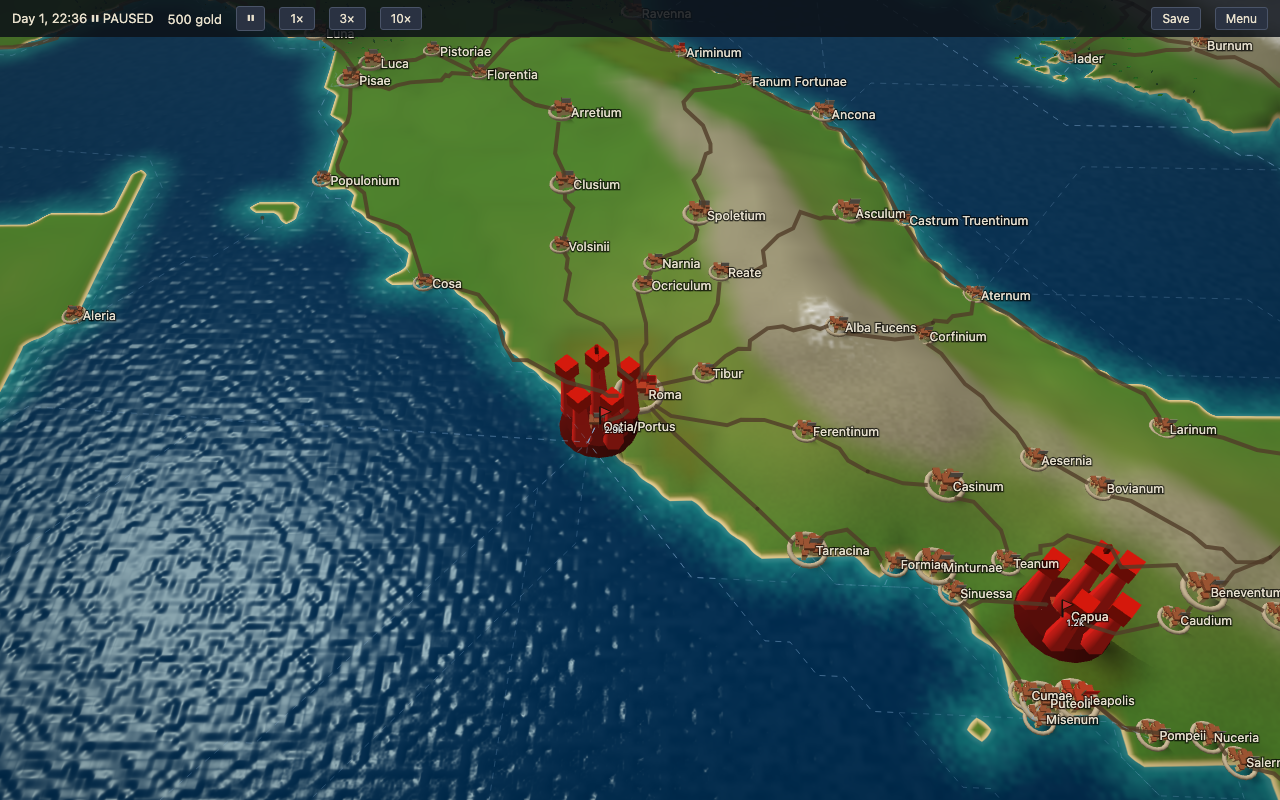
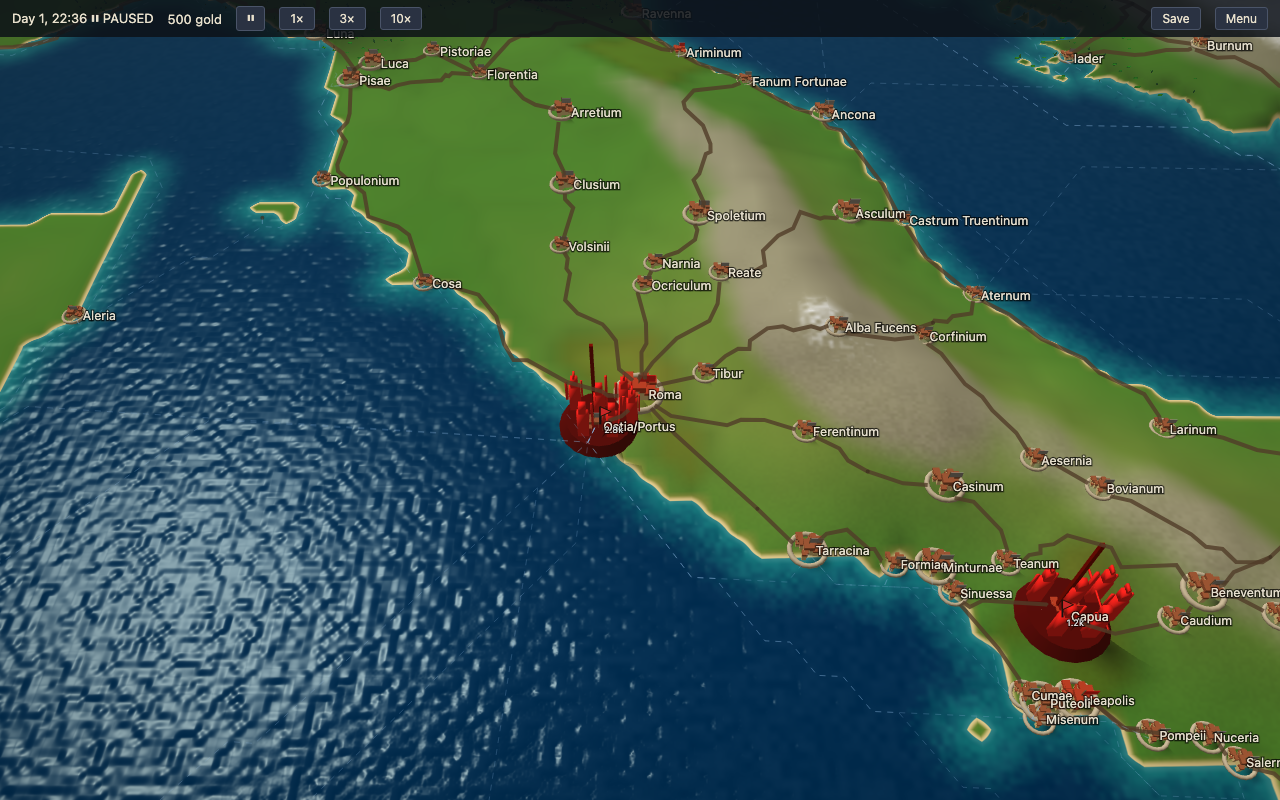
Share the per-class soldier model: campaign armies are built from battle troopers
Extracted the battle renderer's per-class soldier geometry (torso, head, crest,
shield, weapon, optional horse) into shared/soldierModel.ts — classGeometry +
CLASS_LOOK, pure VertexData, no scene deps. The battle renderer imports it
(byte-identical render: battle-initial unchanged). The campaign army marker is
now a knot of those same troopers (a longsword centerpiece, heavies, a
spearman, an archer — compact upright weapons so nothing spears out of the
cluster) instead of crude cylinders, so an army on the map is made of the
soldiers it fields. campaign-3d re-blessed.

diff --git a/web/src/battle/renderer3d.ts b/web/src/battle/renderer3d.ts
@@ -12,6 +12,7 @@ import { Scene } from '@babylonjs/core/scene';
 import { FreeCamera } from '@babylonjs/core/Cameras/freeCamera';
 import { Camera as BCamera } from '@babylonjs/core/Cameras/camera';
 import { PostProcess } from '@babylonjs/core/PostProcesses/postProcess';
+import { CLASS_LOOK, classGeometry } from '../shared/soldierModel';
 import { HemisphericLight } from '@babylonjs/core/Lights/hemisphericLight';
 import { DirectionalLight } from '@babylonjs/core/Lights/directionalLight';
 import { Vector2, Vector3, Vector4 } from '@babylonjs/core/Maths/math.vector';
@@ -237,86 +238,6 @@ void main() {
   gl_FragColor = vec4(clamp(c * 1.08 - 0.015, 0.0, 1.0), 1.0);
 }`;
 
-
-// Per-class look (local +y = forward, +z = up). A weapon length, a shield,
-// and whether the trooper is mounted are enough to read every class apart
-// in silhouette — the same distinctions the atlas sprites draw.
-interface ClassLook {
-  weapon: 'sword' | 'spear' | 'greatsword' | 'pike' | 'bow' | 'javelin' | 'lance' | 'none';
-  shield: 'tall' | 'round' | 'small' | 'none';
-  crest: boolean;
-  mounted: boolean;
-}
-const CLASS_LOOK: ClassLook[] = [
-  { weapon: 'sword', shield: 'tall', crest: true, mounted: false }, // 0 heavy
-  { weapon: 'spear', shield: 'round', crest: false, mounted: false }, // 1 light
-  { weapon: 'greatsword', shield: 'none', crest: false, mounted: false }, // 2 longswords
-  { weapon: 'pike', shield: 'small', crest: true, mounted: false }, // 3 phalanx
-  { weapon: 'bow', shield: 'none', crest: false, mounted: false }, // 4 archers
-  { weapon: 'javelin', shield: 'small', crest: false, mounted: false }, // 5 skirmishers
-  { weapon: 'lance', shield: 'round', crest: true, mounted: true }, // 6 shock cav
-  { weapon: 'bow', shield: 'none', crest: false, mounted: true }, // 7 horse archers
-  { weapon: 'none', shield: 'none', crest: false, mounted: false }, // 8 artillery crew
-];
-
-/** Low-poly per-class soldier (or rider on a horse). Built once per class,
- *  thin-instanced. */
-function classGeometry(cls: number): VertexData {
-  const L = CLASS_LOOK[cls] ?? CLASS_LOOK[0];
-  const pos: number[] = [];
-  const idx: number[] = [];
-  const box = (x0: number, y0: number, z0: number, x1: number, y1: number, z1: number) => {
-    const b = pos.length / 3;
-    const c = [
-      [x0, y0, z0], [x1, y0, z0], [x1, y1, z0], [x0, y1, z0],
-      [x0, y0, z1], [x1, y0, z1], [x1, y1, z1], [x0, y1, z1],
-    ];
-    for (const v of c) pos.push(v[0], v[1], v[2]);
-    for (const [a, bb, cc, d] of [
-      [0, 1, 2, 3], [4, 7, 6, 5], [0, 4, 5, 1], [3, 2, 6, 7], [1, 5, 6, 2], [0, 3, 7, 4],
-    ]) idx.push(b + a, b + bb, b + cc, b + a, b + cc, b + d);
-  };
-
-  // Rider sits higher when mounted; the horse goes under him.
-  const foot = L.mounted ? 0.95 : 0.0;
-  if (L.mounted) {
-    box(-0.16, -0.7, 0.0, 0.16, 0.55, 0.92); // horse barrel
-    box(-0.13, 0.5, 0.55, 0.13, 0.95, 0.78); // neck
-    box(-0.11, 0.9, 0.66, 0.11, 1.18, 0.9); // head
-    box(-0.16, -0.62, 0.0, -0.08, -0.5, 0.6); // a back leg hint
-    box(0.08, 0.42, 0.0, 0.16, 0.54, 0.6); // a front leg hint
-  }
-  box(-0.16, -0.1, foot, 0.16, 0.1, foot + 1.0); // torso + legs
-  box(-0.1, -0.09, foot + 1.0, 0.1, 0.11, foot + 1.34); // head
-  if (L.crest) box(-0.03, -0.05, foot + 1.34, 0.03, 0.14, foot + 1.5); // helmet crest
-
-  // Shield on the left arm (-x), facing forward.
-  if (L.shield !== 'none') {
-    const sh = { tall: [0.5, 0.78], round: [0.42, 0.55], small: [0.32, 0.4] }[L.shield];
-    box(-0.27, 0.02, foot + 0.35, -0.19, 0.06 + sh[0] * 0.0 + 0.0, foot + 0.35 + sh[1]);
-  }
-
-  // Weapon on the right (+x), reaching forward (+y) for poles, upright for blades/bows.
-  const wx = 0.2;
-  switch (L.weapon) {
-    case 'pike': box(wx - 0.02, -0.2, foot + 0.7, wx + 0.02, 3.0, foot + 0.78); break;
-    case 'lance': box(wx - 0.02, -0.1, foot + 0.55, wx + 0.02, 2.0, foot + 0.62); break;
-    case 'spear': box(wx - 0.02, -0.2, foot + 0.6, wx + 0.02, 1.4, foot + 0.66); break;
-    case 'javelin': box(wx - 0.02, -0.1, foot + 0.7, wx + 0.02, 0.9, foot + 0.74); break;
-    case 'sword': box(wx - 0.02, 0.0, foot + 0.5, wx + 0.03, 0.06, foot + 1.2); break;
-    case 'greatsword': box(wx - 0.03, 0.0, foot + 0.4, wx + 0.04, 0.08, foot + 1.7); break;
-    case 'bow': box(wx + 0.04, -0.02, foot + 0.4, wx + 0.1, 0.02, foot + 1.4); break;
-    case 'none': break;
-  }
-
-  const vd = new VertexData();
-  vd.positions = pos;
-  vd.indices = idx;
-  const normals: number[] = [];
-  VertexData.ComputeNormals(pos, idx, normals);
-  vd.normals = normals;
-  return vd;
-}
 
 // Box accumulator for low-poly props; optional per-vertex colour.
 function pushBox(

diff --git a/web/src/shared/soldierModel.ts b/web/src/shared/soldierModel.ts
@@ -1,0 +1,85 @@
+// Low-poly per-class soldier geometry, shared by the battle renderer (one
+// thin-instanced mesh per class, animated) and the campaign map (a few figures
+// merged into each army marker). Local axes: +y = forward, +z = up. A weapon
+// length, a shield, and whether the trooper is mounted are enough to read
+// every class apart in silhouette — the same distinctions the atlas sprites
+// draw. Pure geometry: positions, indices, computed normals; no scene deps.
+
+import { VertexData } from '@babylonjs/core/Meshes/mesh.vertexData';
+
+export interface ClassLook {
+  weapon: 'sword' | 'spear' | 'greatsword' | 'pike' | 'bow' | 'javelin' | 'lance' | 'none';
+  shield: 'tall' | 'round' | 'small' | 'none';
+  crest: boolean;
+  mounted: boolean;
+}
+
+export const CLASS_LOOK: ClassLook[] = [
+  { weapon: 'sword', shield: 'tall', crest: true, mounted: false }, // 0 heavy
+  { weapon: 'spear', shield: 'round', crest: false, mounted: false }, // 1 light
+  { weapon: 'greatsword', shield: 'none', crest: false, mounted: false }, // 2 longswords
+  { weapon: 'pike', shield: 'small', crest: true, mounted: false }, // 3 phalanx
+  { weapon: 'bow', shield: 'none', crest: false, mounted: false }, // 4 archers
+  { weapon: 'javelin', shield: 'small', crest: false, mounted: false }, // 5 skirmishers
+  { weapon: 'lance', shield: 'round', crest: true, mounted: true }, // 6 shock cav
+  { weapon: 'bow', shield: 'none', crest: false, mounted: true }, // 7 horse archers
+  { weapon: 'none', shield: 'none', crest: false, mounted: false }, // 8 artillery crew
+];
+
+/** Per-class soldier (or rider on a horse) as one box mesh. */
+export function classGeometry(cls: number): VertexData {
+  const L = CLASS_LOOK[cls] ?? CLASS_LOOK[0];
+  const pos: number[] = [];
+  const idx: number[] = [];
+  const box = (x0: number, y0: number, z0: number, x1: number, y1: number, z1: number) => {
+    const b = pos.length / 3;
+    const c = [
+      [x0, y0, z0], [x1, y0, z0], [x1, y1, z0], [x0, y1, z0],
+      [x0, y0, z1], [x1, y0, z1], [x1, y1, z1], [x0, y1, z1],
+    ];
+    for (const v of c) pos.push(v[0], v[1], v[2]);
+    for (const [a, bb, cc, d] of [
+      [0, 1, 2, 3], [4, 7, 6, 5], [0, 4, 5, 1], [3, 2, 6, 7], [1, 5, 6, 2], [0, 3, 7, 4],
+    ]) idx.push(b + a, b + bb, b + cc, b + a, b + cc, b + d);
+  };
+
+  // Rider sits higher when mounted; the horse goes under him.
+  const foot = L.mounted ? 0.95 : 0.0;
+  if (L.mounted) {
+    box(-0.16, -0.7, 0.0, 0.16, 0.55, 0.92); // horse barrel
+    box(-0.13, 0.5, 0.55, 0.13, 0.95, 0.78); // neck
+    box(-0.11, 0.9, 0.66, 0.11, 1.18, 0.9); // head
+    box(-0.16, -0.62, 0.0, -0.08, -0.5, 0.6); // a back leg hint
+    box(0.08, 0.42, 0.0, 0.16, 0.54, 0.6); // a front leg hint
+  }
+  box(-0.16, -0.1, foot, 0.16, 0.1, foot + 1.0); // torso + legs
+  box(-0.1, -0.09, foot + 1.0, 0.1, 0.11, foot + 1.34); // head
+  if (L.crest) box(-0.03, -0.05, foot + 1.34, 0.03, 0.14, foot + 1.5); // helmet crest
+
+  // Shield on the left arm (-x), facing forward.
+  if (L.shield !== 'none') {
+    const sh = { tall: [0.5, 0.78], round: [0.42, 0.55], small: [0.32, 0.4] }[L.shield];
+    box(-0.27, 0.02, foot + 0.35, -0.19, 0.06 + sh[0] * 0.0 + 0.0, foot + 0.35 + sh[1]);
+  }
+
+  // Weapon on the right (+x), reaching forward (+y) for poles, upright otherwise.
+  const wx = 0.2;
+  switch (L.weapon) {
+    case 'pike': box(wx - 0.02, -0.2, foot + 0.7, wx + 0.02, 3.0, foot + 0.78); break;
+    case 'lance': box(wx - 0.02, -0.1, foot + 0.55, wx + 0.02, 2.0, foot + 0.62); break;
+    case 'spear': box(wx - 0.02, -0.2, foot + 0.6, wx + 0.02, 1.4, foot + 0.66); break;
+    case 'javelin': box(wx - 0.02, -0.1, foot + 0.7, wx + 0.02, 0.9, foot + 0.74); break;
+    case 'sword': box(wx - 0.02, 0.0, foot + 0.5, wx + 0.03, 0.06, foot + 1.2); break;
+    case 'greatsword': box(wx - 0.03, 0.0, foot + 0.4, wx + 0.04, 0.08, foot + 1.7); break;
+    case 'bow': box(wx + 0.04, -0.02, foot + 0.4, wx + 0.1, 0.02, foot + 1.4); break;
+    case 'none': break;
+  }
+
+  const vd = new VertexData();
+  vd.positions = pos;
+  vd.indices = idx;
+  const normals: number[] = [];
+  VertexData.ComputeNormals(pos, idx, normals);
+  vd.normals = normals;
+  return vd;
+}

diff --git a/web/src/campaign/terrain3d.ts b/web/src/campaign/terrain3d.ts
@@ -33,6 +33,7 @@ import '@babylonjs/core/Meshes/thinInstanceMesh';
 import type { CampaignData } from './data';
 import type { CamView } from './renderer';
 import { TerrainField, SUN, TEMPERATE_Y_KM, hash2 } from './terrain';
+import { classGeometry } from '../shared/soldierModel';
 
 const FOV = (45 * Math.PI) / 180;
 /** Tilt: 90° (top-down) until TILT_START, easing to MIN_PITCH by TILT_END. */
@@ -604,27 +605,31 @@ export class Terrain3D {
     base.rotation.x = Math.PI / 2; // cylinder axis Y -> world up Z
     base.position.z = 0.18;
     parts.push(this.paint(base, 0.32, 0.32, 0.34)); // dark muted footprint, faction-tinted
-    // A soldier: tapered body + a head, standing on the base.
-    const soldier = (sx: number, sy: number, hgt: number) => {
-      const body = CreateCylinder('s', { diameterTop: 0.45, diameterBottom: 0.8, height: hgt, tessellation: 6 }, this.scene);
-      body.rotation.x = Math.PI / 2;
-      body.position.set(sx, sy, 0.35 + hgt / 2);
-      parts.push(this.paint(body, 1, 1, 1)); // full faction color
-      const head = CreateBox('h', { size: 0.62 }, this.scene);
-      head.rotation.z = Math.PI / 4;
-      head.position.set(sx, sy, 0.35 + hgt + 0.22);
-      parts.push(this.paint(head, 0.85, 0.72, 0.6)); // flesh, faction-tinted
+    // Reuse the battle's per-class soldier geometry (shared/soldierModel) so
+    // the marker is built from the same troopers the battle fields — a
+    // representative mix gives the knot a readable silhouette. classGeometry
+    // is +z up, foot at 0; a zero UV keeps the merge layout-consistent with
+    // the uv-carrying base/pole.
+    const trooper = (sx: number, sy: number, cls: number) => {
+      const m = new Mesh('t', this.scene);
+      classGeometry(cls).applyToMesh(m);
+      m.setVerticesData(VertexBuffer.UVKind, new Float32Array(m.getTotalVertices() * 2));
+      m.scaling.setAll(1.35);
+      m.position.set(sx, sy, 0.35);
+      parts.push(this.paint(m, 1, 1, 1)); // faction livery
     };
-    soldier(0, 0.25, 3.1); // the standard-bearer, taller and central
-    soldier(1.15, 0.35, 2.3);
-    soldier(-1.15, 0.45, 2.3);
-    soldier(0.55, -1.1, 2.3);
-    soldier(-0.65, -1.0, 2.3);
-    // The standard: a pole rising from the central figure (the 3D twin of the
-    // flat pennant that flies above it).
+    // Compact, upright-weapon classes so nothing spears out of the knot
+    // (the phalanx pike / cavalry lance reach far forward in the battle model).
+    trooper(0.0, 0.2, 2); // longswords — a tall blade held high, the centerpiece
+    trooper(0.95, 0.5, 0); // heavy infantry (sword + tall shield)
+    trooper(-0.95, 0.55, 0);
+    trooper(0.5, -0.75, 1); // spearmen
+    trooper(-0.6, -0.7, 4); // archer
+    trooper(1.25, -0.15, 0); // heavy infantry
+    // The standard rises over the knot (the 3D twin of the flat pennant).
     const pole = CreateBox('p', { width: 0.13, depth: 0.13, height: 4.0 }, this.scene);
     pole.rotation.x = Math.PI / 2;
-    pole.position.set(0, 0.25, 0.35 + 2.0);
+    pole.position.set(-0.2, 0.3, 0.35 + 2.0);
     parts.push(this.paint(pole, 0.5, 0.4, 0.3)); // wood, faction-tinted
 
     const merged = Mesh.MergeMeshes(parts, true, true);
